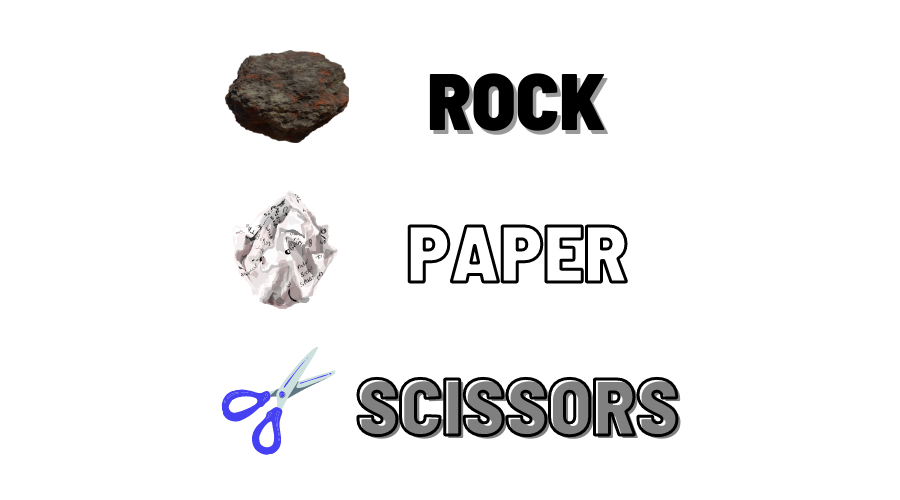
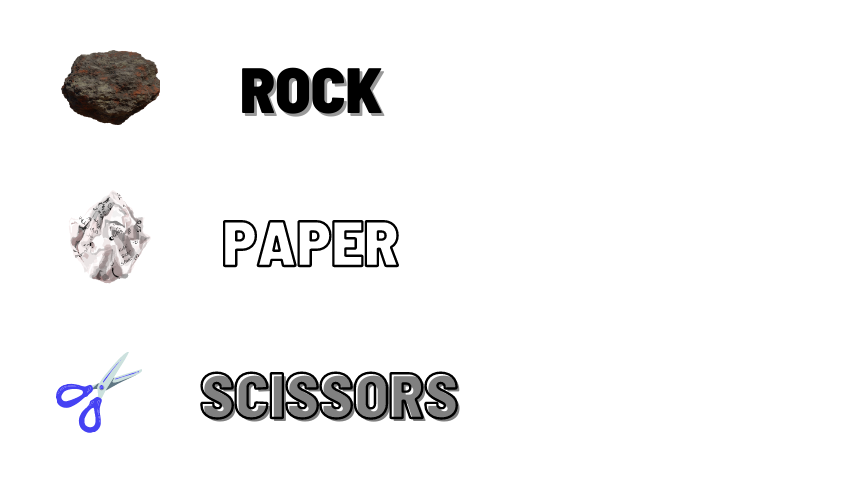
Main image and buttons in final position

diff --git a/index.html b/index.html
@@ -15,19 +15,27 @@
     <body>
         <div class="outer-container">
             <h1 id="game_title">Rock Paper Scissors</h1>
-            <h2>Round <span id="roundNum"></span></h2>
-            <div class="main_screen">
-                <h3>Choose you move:</h3>
-                <img src="images/alt_main.png" alt="Image of a rock, a crumpled up piece of paper, and a pair of scissors." class="main_img" />
-                <button id="rock_btn">Play rock</button>
-                <button id="paper_btn">Play paper</button>
-                <button id="scissors_btn">Play scissors</button>
+
+            <h2 id="round_title">Round <span id="roundNum">1</span></h2>   
+                
+
+                <div class="main_screen">
+                    <h3 class="directions">Choose your move:</h3>
+                    <img src="images/alt_main.png" alt="Image of a rock, a crumpled up piece of paper, and a pair of scissors." class="main_img" />
+                    <div class="button-container">
+                        <button id="rock_btn">Play rock</button>
+                        <button id="paper_btn">Play paper</button>
+                        <button id="scissors_btn">Play scissors</button>
+                    </div>
+                    
+                </div>
+                
                 <div id="score_table">
-                    <div>
+                    <div class="scoreL">
                         <p>Your Score</p>
                         <span id="player_score"></span>
                     </div>
-                    <div>
+                    <div class="scoreR">
                         <p>Computer Score</p>
                         <span id="computer_score"></span>
                     </div>
@@ -36,7 +44,7 @@
                     <p id="feedback_text"></p>
                 </div>
 
-            </div>
+            
            
         </div>
     <script src="script.js"></script>

diff --git a/styles.css b/styles.css
@@ -9,25 +9,32 @@ body {
 #game_title {
     margin-top: 5px;
     margin-bottom: 5px;
-    font-size: 55px;
+    font-size: 50px;
     font-weight: bolder;
     color: #fff;
+    text-align: center;
 
 }
 
-/****Layout for the 3 main sections of page****/
-.outer-container {
-    display: flex;
-    flex-direction: column;
-    align-items: center;
-    gap: 10px;    
-       
+#round_title {
+    font-size: 32px;
+    text-align: center;
+    margin: 0;
+    padding-top: 5px;
+}
+
+.directions {
+    font-size: 25px;
+    margin-left: 20%;
 }
 
 .main_img {
-    height: 500px;
-    width: 800px;
+    height: 420px;
+    width: 650px;
+    border: 3px solid black;
+    margin-left: 60px;
 }
+
 
 button {
     width: 150px;
@@ -35,9 +42,15 @@ button {
     border-radius: 6px;
     font-size: 18px;
     background-color: #4CFEBE;
+    display: block;
+    margin-bottom: 87px;
 }
 
-
+.button-container {
+    position: absolute;
+    top: 41%;
+    left: 40%;
+}
 
 /****Button to choose rock, paper, or scissors****/
 
